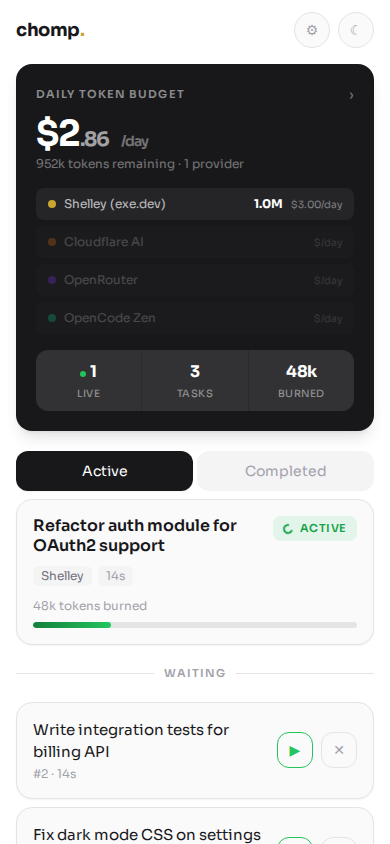
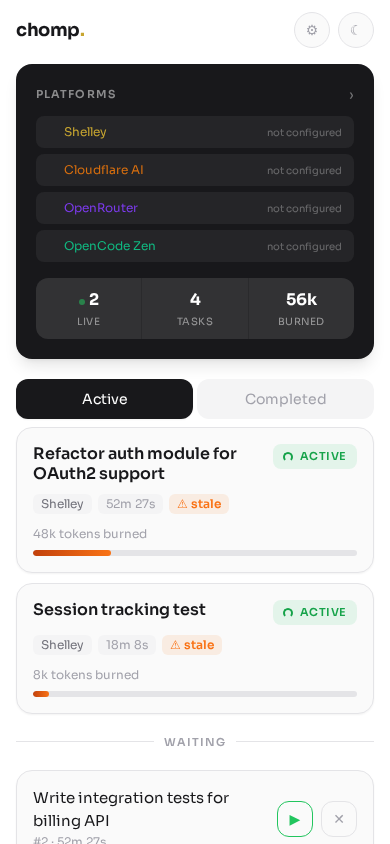
Update screenshot and HANDOFF with current status

diff --git a/HANDOFF.md b/HANDOFF.md
@@ -66,12 +66,17 @@ docker run -d --name chomp --restart unless-stopped -p 8000:8001 -v /home/exedev
 | POST | /api/tasks/delete | Delete task |
 
 ## What to work on next
-1. ~~**Delete waiting tasks doesn't refresh UI**~~ ✅ Fixed — server sends `HX-Trigger: refreshTasks`, content div listens.
+1. ~~**Delete waiting tasks doesn't refresh UI**~~ ✅ Fixed.
 2. ~~**Old `dashboard/` directory**~~ ✅ Deleted.
-3. ~~**Settings: agent install/BYO UI**~~ ✅ Added — install form + remove button for custom agents.
-4. ~~**Create task wizard**~~ ✅ Rebuilt as 4-step HTMX wizard (prompt→agent→model→review).
-5. **Session tracking** — detail sheet says "No session history yet". Wire to real agent session data.
-6. **Gateproof integration** — tasks with gate files, verification loops.
+3. ~~**Settings: agent install/BYO UI**~~ ✅ Added.
+4. ~~**Create task wizard**~~ ✅ 4-step HTMX wizard.
+5. ~~**Session tracking**~~ ✅ Session struct, activity timeline, handoff chaining.
+6. ~~**Boot screen**~~ ✅ PS5-style wordmark + gold bar animation.
+7. ~~**Agent/model stamping**~~ ✅ Git commit trailers via `chomp done`.
+8. ~~**Token budget enforcement**~~ ✅ Daily gate (429) + per-task flag (300k).
+9. **Dashboard dispatch** — wire ▶ button to actually exec adapter scripts from Go server.
+10. **Gateproof integration** — tasks with gate files, verification loops.
+11. **Pi adapter** — third agent platform.
 
 ## Critical rules
 - **Run tests before committing**: `go test -count=1 -run . server_test.go server.go`
